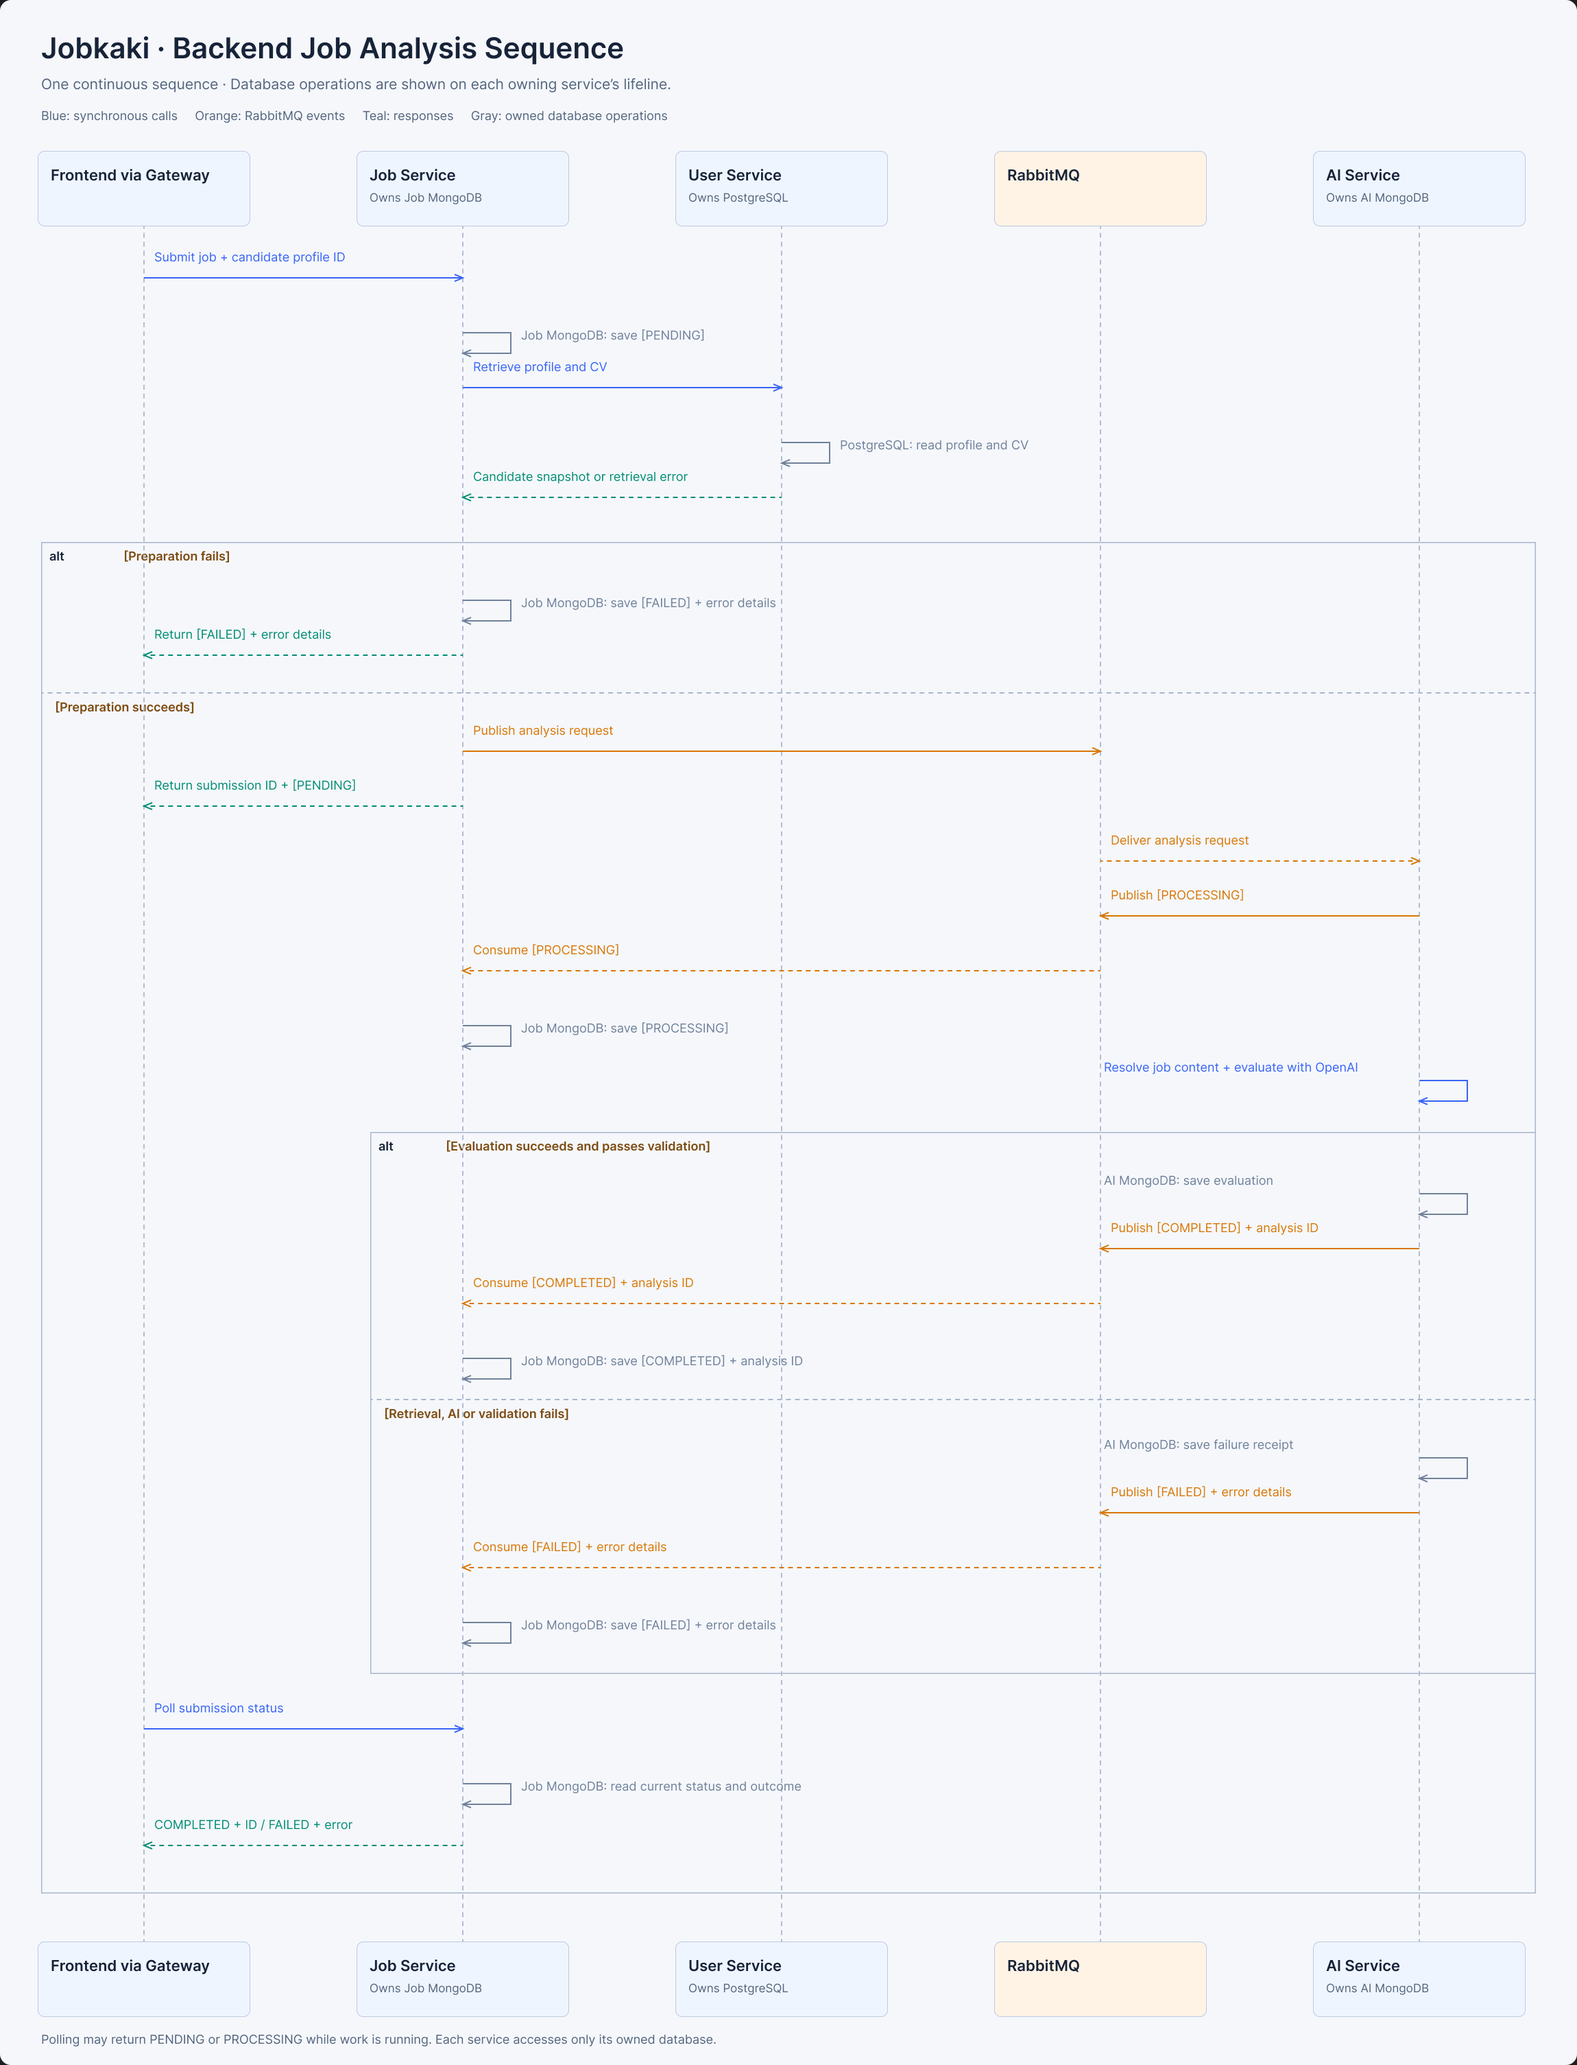
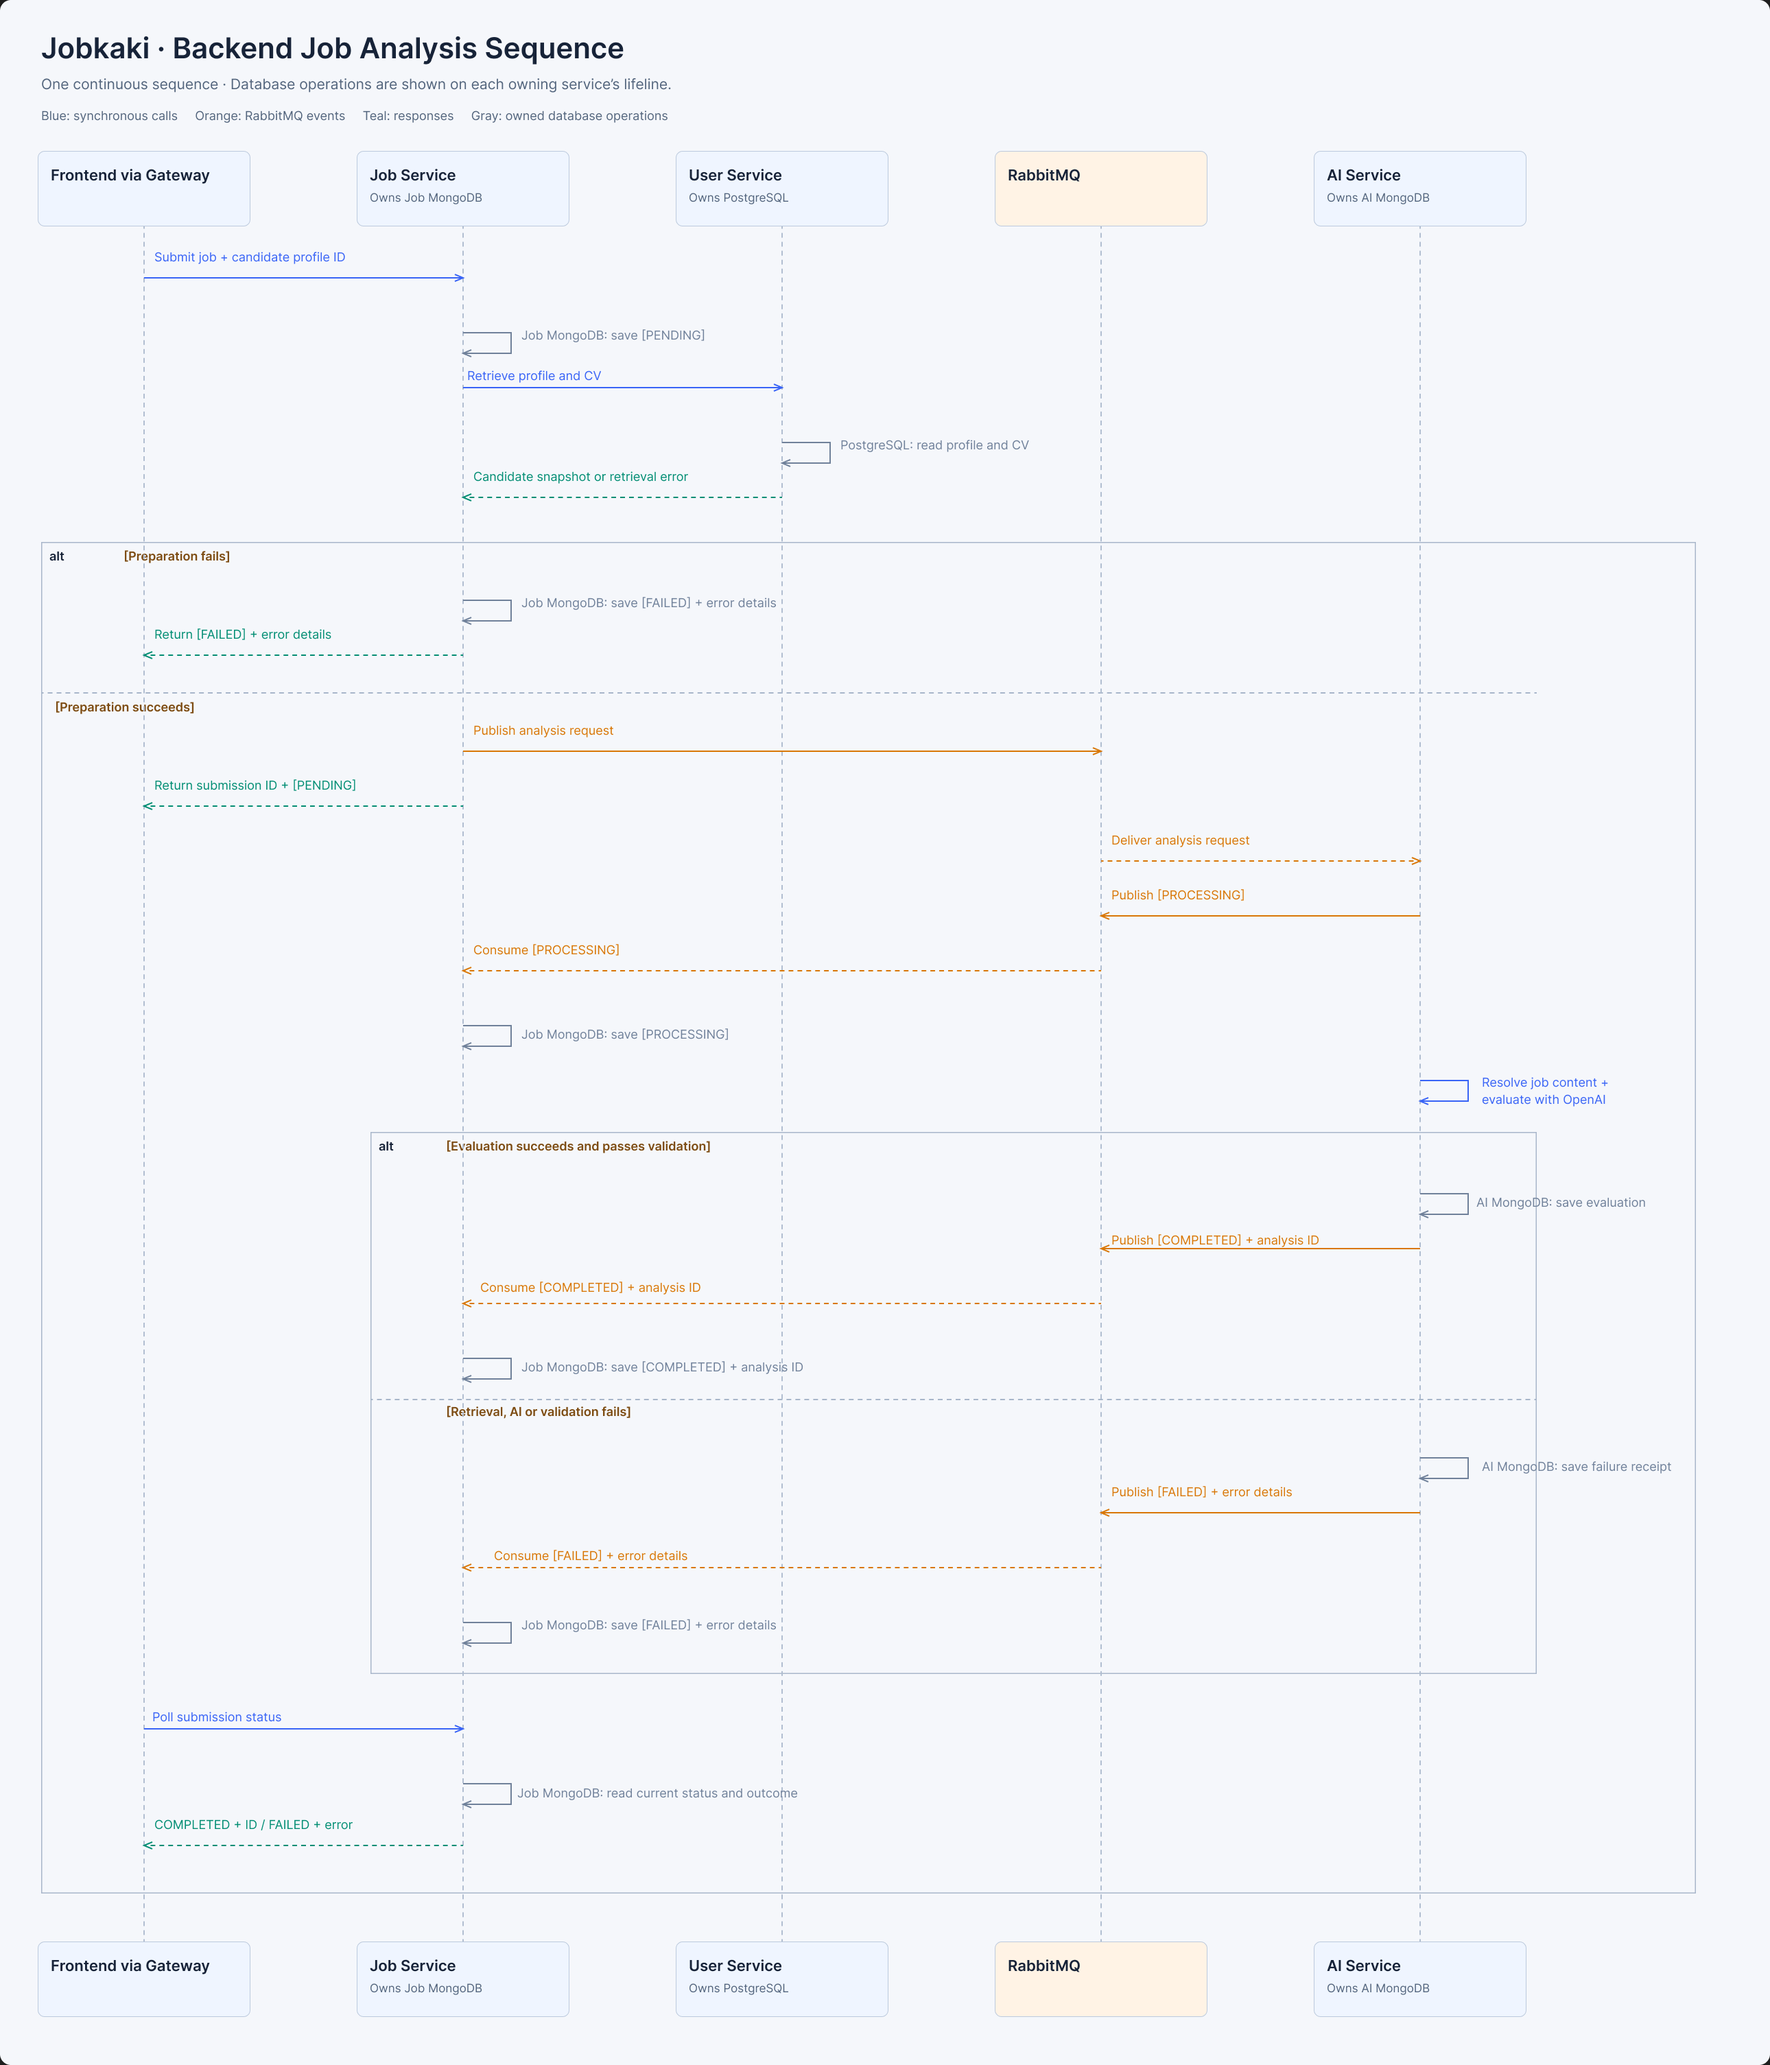
docs: remove backend LLD section and refresh Figma sequence

diff --git a/Backend/README.md b/Backend/README.md
@@ -1,13 +1,5 @@
 # JobKaki Backend
 
-## LLD Architecture
-
-![JobKaki backend low-level design](docs/images/backend-lld.png)
-
-[View and edit the backend LLD in Figma](https://www.figma.com/design/TlqNS7H8eS6y3poiiImCV9/Java-System-Architecture?node-id=348-170)
-
-The LLD reflects the current controller/service/repository implementation. It shows each service's owned data, the candidate/CV snapshot call, RabbitMQ listeners and events, and the AI resolution, evaluation, and validation components.
-
 ## Job Analysis Processing
 
 ![JobKaki backend job analysis sequence](docs/images/job-analysis-sequence.png)
